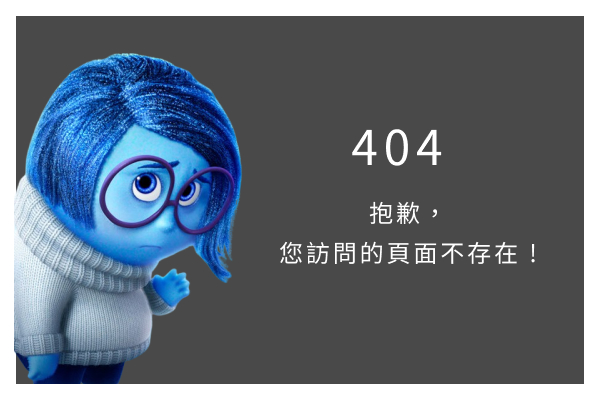
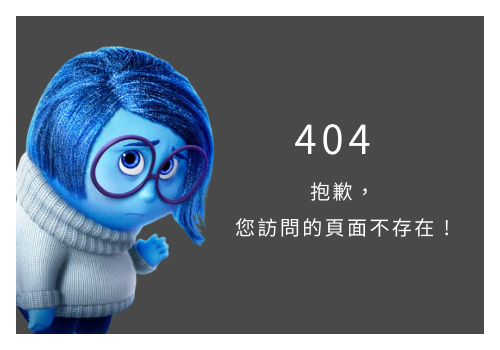
改樣式套件

diff --git a/src/app/movielocation/movielocation.component.html b/src/app/movielocation/movielocation.component.html
@@ -1,16 +1,16 @@
 <section class="home-movie py-2-5">
   <div class="movie-group pb-3">
-    <div class="text">
-      <a [routerLink]="['/details', moviePost.id]">
+    <div class="text col-10">
+      <a class="text-decoration-none" [routerLink]="['/details', moviePost.id]">
         <h3 class="fs-3 fs-sm-6">✎&nbsp;電影影評&nbsp;|&nbsp;{{ moviePost.name }}</h3>
         <!-- 空格也可以用span -->
       </a>
       <h3 class="fs-4">電影金句 :「{{moviePost.focus}}」</h3>
     </div>
-    <img class="movie-photo radius" [src]="moviePost.photo" alt="{{moviePost.name}}">
+    <img class="movie-photo rounded col-2" [src]="moviePost.photo" alt="{{moviePost.name}}">
   </div>
 
-  <div class="location">
+  <div class="location d-flex justify-content-between">
     <p class="fs-6">作者 : {{moviePost.author}}</p>
     <p class="fs-6">更新時間 : {{moviePost.updateTime}}</p>
   </div>

diff --git a/src/app/details/details.component.html b/src/app/details/details.component.html
@@ -6,17 +6,17 @@
     </div>
   </section>
 
-  <section class="details-pic mb-2 ml-4">
-    <img class="details-photo img-fluid radius" [src]="movieDetails.photo" alt="{{movieDetails.name}}">
+  <section class="details-pic mb-2 ml-4 d-flex justify-content-center">
+    <img class="details-photo img-fluid rounded" [src]="movieDetails.photo" alt="{{movieDetails.name}}">
   </section>
 
-  <section class="location">
+  <section class="location text-end">
     <div class="details-location col-12">
       <p class="fs-6">✎ 作者 : {{movieDetails.author}} / 更新時間 : {{movieDetails.updateTime}}</p>
     </div>
   </section>
 
-  <section class="details-post my-4 fs-3-5">
+  <section class="details-post my-4 fs-3-5 text-left lh-lg">
     <div class="col-12">
       <pre class="fs-6 content-text">{{movieDetails.content}}</pre>
     </div>

diff --git a/src/app/movie.service.ts b/src/app/movie.service.ts
@@ -6,19 +6,19 @@ import { Moviepost } from "./moviepost";
 })
 
 export class MovieService {
-  private readonly url:string = 'http://localhost:3000/movies';
+  private readonly url: string = 'http://localhost:3000/movies';
   /**
    * @returns 回傳一個Moviepost[]類型的promise
    */
   public async getMoviePost(): Promise<Moviepost[]> {
-    const data:Response = await fetch(this.url);
+    const data: Response = await fetch(this.url);
     return await data.json() ?? [];
   }
   /**
    * @param id 參數，回傳的id要是數字型別的。
    */
   public async getMoviePostId(id: number): Promise<Moviepost> {
-    const data:Response  = await fetch(`${this.url}/${id}`);
+    const data: Response = await fetch(`${this.url}/${id}`);
     return await data.json() ?? {
       id: 0,
       name: '',

diff --git a/src/app/details/details.component.scss b/src/app/details/details.component.scss
@@ -8,9 +8,6 @@ article {
 }
 
 .details-pic {
-  display: flex;
-  justify-content: center;
-
   img {
     width: 740px;
     height: 100%;
@@ -18,22 +15,15 @@ article {
 }
 
 .details-post {
-  text-align: center;
-  line-height: 36px;
-
   pre {
     color: var(--text-color);
   }
 
   .content-text {
+    //只會影響段落的第一行
     //自動換行
     text-indent: 2em;
     white-space: pre-wrap;
     max-width: 800px;
-    text-align: left;
   }
-}
-
-.location p {
-  text-align: end;
 }

diff --git a/src/app/allmovie/allmovie.component.html b/src/app/allmovie/allmovie.component.html
@@ -19,5 +19,5 @@
   </div>
 </section>
 
-<ngb-pagination class="py-4" [(page)]="page" [pageSize]="pageSize" [collectionSize]="items"
-  (pageChange)="onPageChange($event)"></ngb-pagination>/>
+<ngb-pagination class="py-4 d-flex justify-content-center" [(page)]="page" [pageSize]="pageSize"
+  [collectionSize]="items" (pageChange)="onPageChange($event)"></ngb-pagination>/>

diff --git a/src/app/page-not-found/page-not-found.component.html b/src/app/page-not-found/page-not-found.component.html
@@ -1,6 +1,6 @@
-<section class="pagenotfind mt-7">
+<section class="pagenotfind mt-7 text-center">
   <h1 class="pb-4">此頁面不存在&nbsp;!</h1>
-  <img class="pagenotfind" src="/assets/pagenotfind.jpg" alt="pagenotfind">
+  <img class="pagenotfind rounded" src="/assets/pagenotfind.jpg" alt="pagenotfind">
 </section>
 
 <section class="button">

diff --git a/src/app/allmovie/allmovie.component.ts b/src/app/allmovie/allmovie.component.ts
@@ -77,9 +77,6 @@ export class AllmovieComponent {
     return this._currentPage;
   }
 
-  public set currentPage(value: number) {
-    this._currentPage = value;
-  }
   /**
    * 方法調用回傳promise，.then接收回傳的結果
    * void 表示getMoviepost方法不會返回任何東西。

diff --git a/src/app/page-not-found/page-not-found.component.ts b/src/app/page-not-found/page-not-found.component.ts
@@ -8,6 +8,4 @@ import { RouterModule } from '@angular/router';
   templateUrl: './page-not-found.component.html',
   styleUrl: './page-not-found.component.scss'
 })
-export class PageNotFoundComponent {
-
-}
+export class PageNotFoundComponent { }

diff --git a/src/app/details/details.component.ts b/src/app/details/details.component.ts
@@ -24,7 +24,7 @@ export class DetailsComponent {
   private titleService = inject(Title);
   private router: Router = inject(Router);
   private _movieDetails: Moviepost = {
-    id: 1,
+    id: 0,
     name: '',
     focus: '',
     author: '',

diff --git a/src/app/movielocation/movielocation.component.scss b/src/app/movielocation/movielocation.component.scss
@@ -22,12 +22,6 @@
 }
 
 .location {
-  display: flex;
-  justify-content: space-between;
   color: var(--text-color);
   border-bottom: 1px solid var(--text-color);
-}
-
-a {
-  text-decoration: none;
 }

diff --git a/src/app/home/home.component.html b/src/app/home/home.component.html
@@ -23,7 +23,7 @@
 </ngb-carousel>
 }
 
-<section class="home-title m-6">
+<section class="home-title m-6 text-center">
   <h2>☾ 最新文章 ☽</h2>
 </section>
 

diff --git a/src/app/page-not-found/page-not-found.component.scss b/src/app/page-not-found/page-not-found.component.scss
@@ -5,9 +5,4 @@ h1 {
 .pagenotfind {
   display: grid;
   place-items: center;
-  text-align: center;
-
-  img {
-    border-radius: 20px;
-  }
 }
